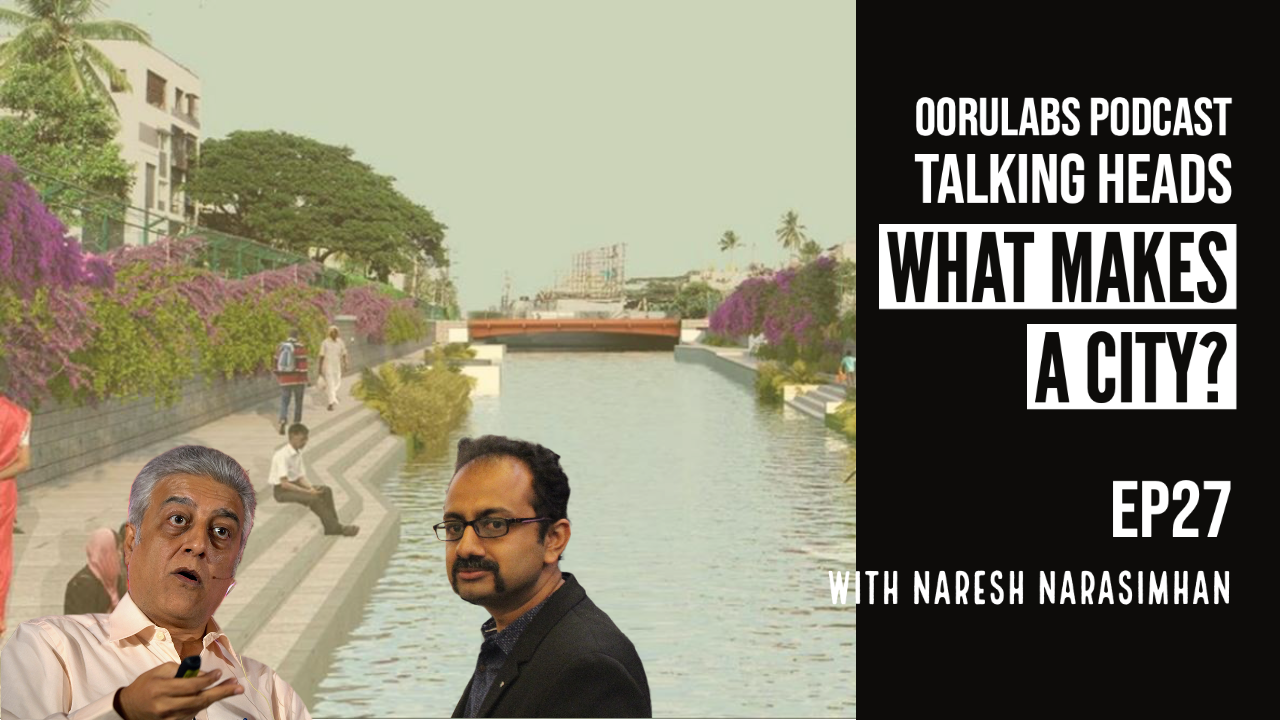
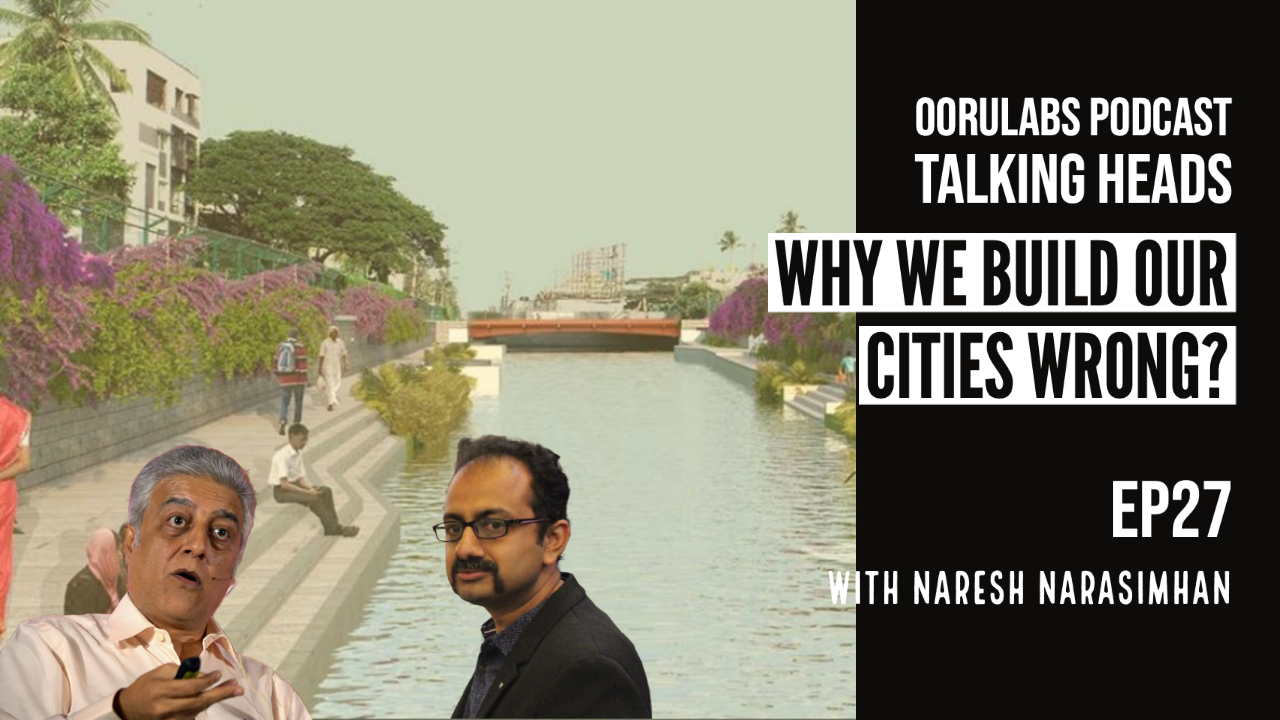
ep27 update

diff --git a/index.html b/index.html
@@ -293,7 +293,7 @@
           <div class="image" style="background-image: url('images/pod-images/OoruLabs EP27-1.png');"></div>
           <div class="text">
             <h5><span class="badge bg-warning">Coming Soon</span></h5>
-            <h3 class="font-weight-light"><a href="#">Episode 27: What makes cities?</a></h3>
+            <h3 class="font-weight-light"><a href="#">Episode 27: Why we build our cities wrong?</a></h3>
             <div class="text-white mb-3"><span class="text-black-opacity-05"><small>Talking Heads <span class="sep">/</span> 12 Aug 2023 <span class="sep">/</span> 00:00</small></span></div>
             <p class="mb-4">Naresh Narasimhan talks about cities, design, people, identity and branding.</p>
             <h5 class="mb-1">Also on</h5>
